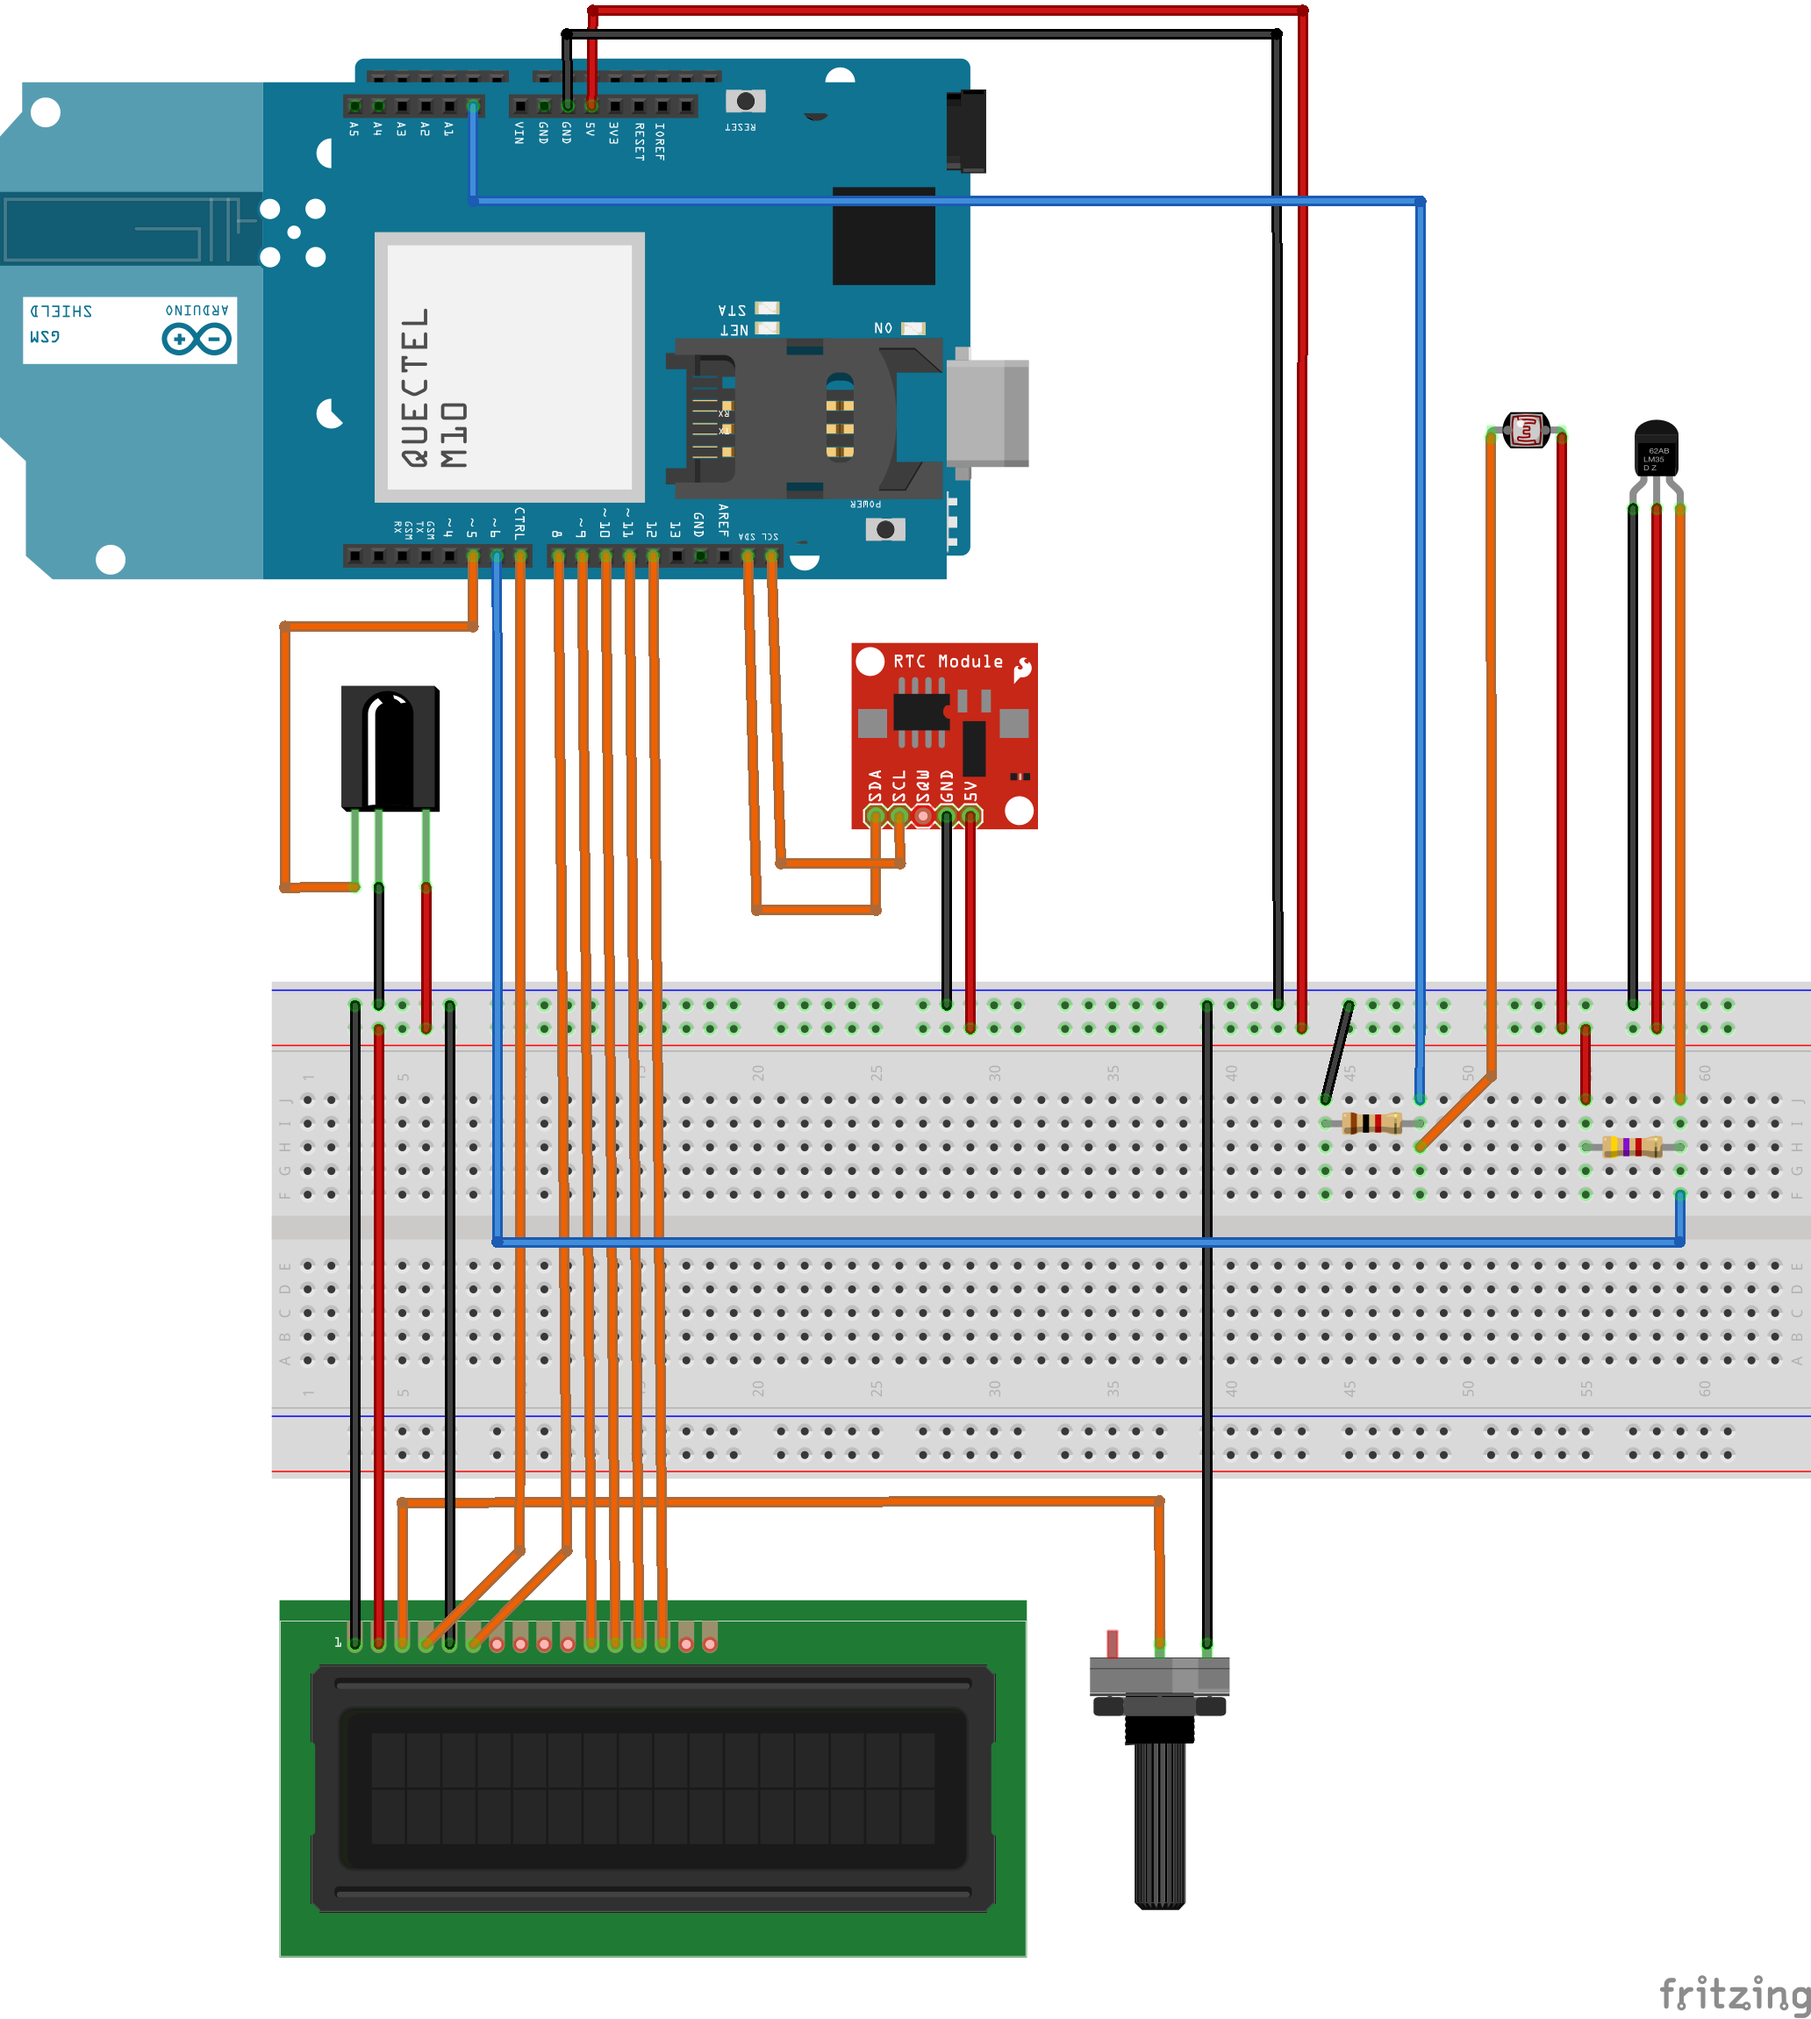
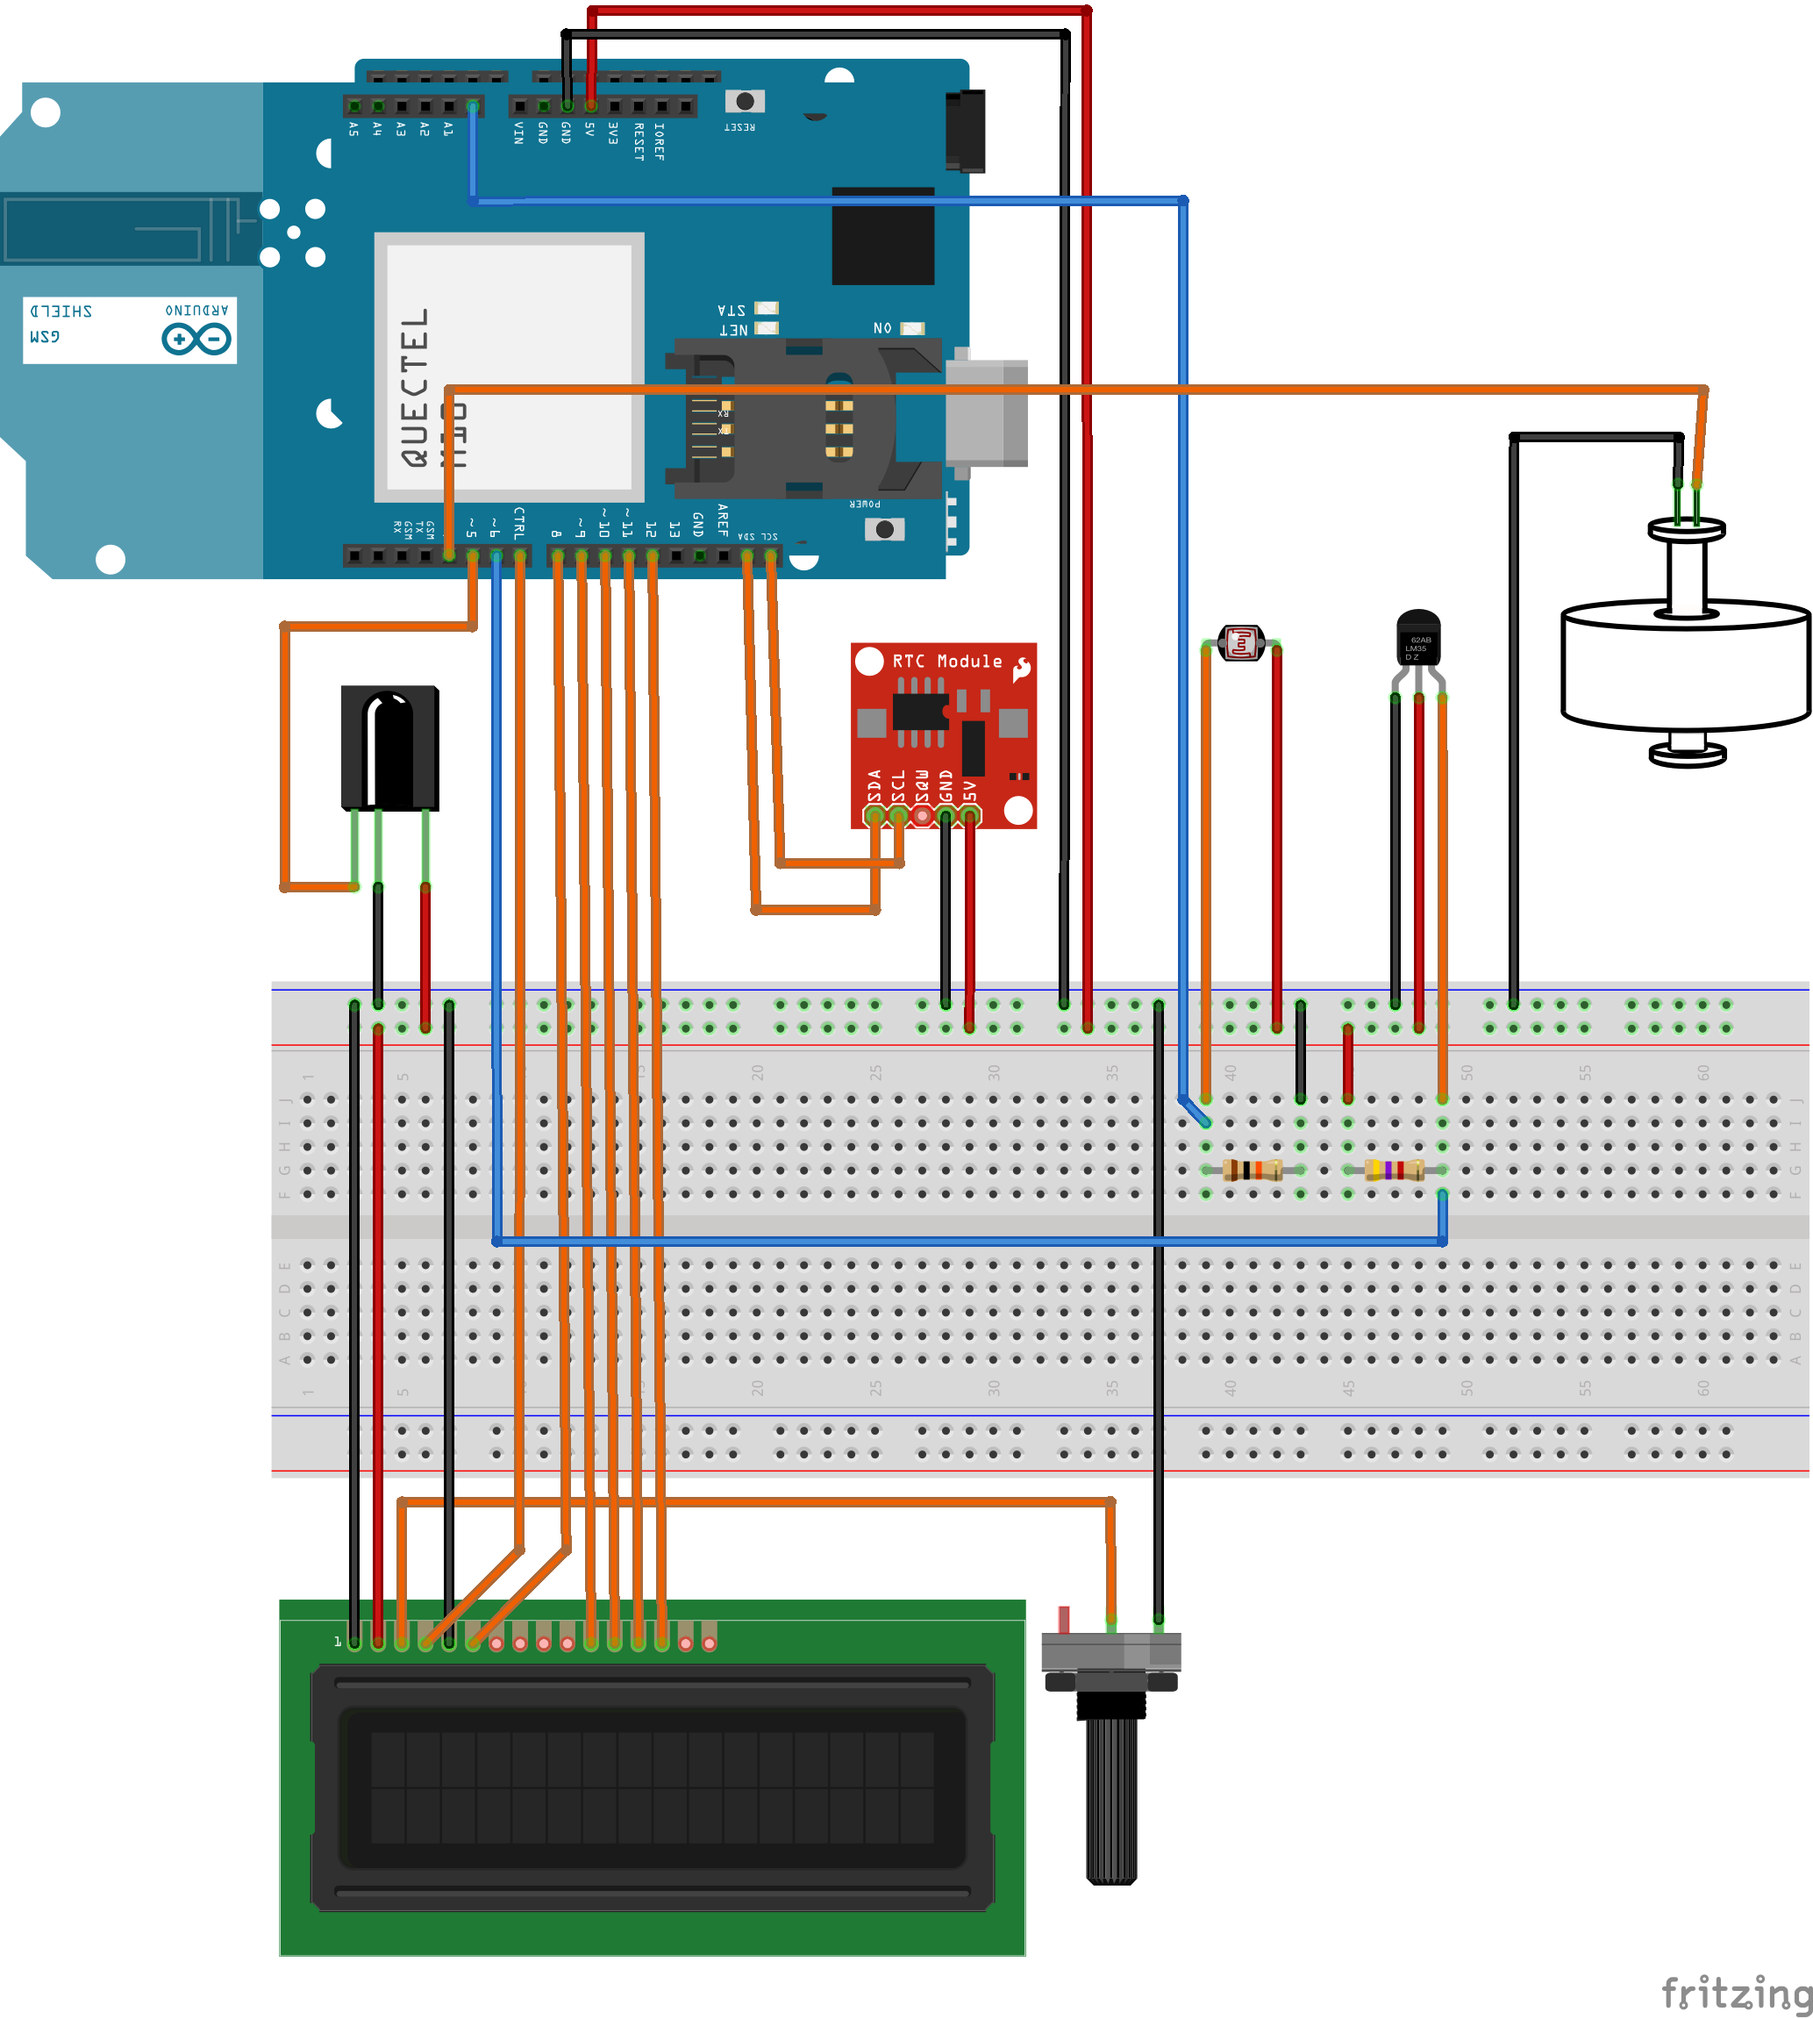
Added Floating switch to design for water level low alerts Added Floating switch component file for Fritzing

diff --git a/hardware/aquaMonitor_bom.html b/hardware/aquaMonitor_bom.html
@@ -29,8 +29,8 @@ td {
 
 <body>
 <h1>Bill of Materials: aquaMonitor.fzz</h1>
-<p class="meta">F:/DEV/arduino/aquaMonitor/aquaMonitor.fzz</p>
-<p class="meta">lundi, avril 6 2015, 17:44:23</p>
+<p class="meta">C:/Users/Xavier/Documents/DEV/Arduino/aquaMonitor/hardware/aquaMonitor.fzz</p>
+<p class="meta">samedi, avril 11 2015, 13:14:34</p>
 
 <h2>Assembly List</h2>
 <table>
@@ -58,7 +58,7 @@ td {
 </tr><tr>
     <td>IR1</td>
     <td>TSOP312.., 314..</td>
-    <td class="props">espacement des broches 0.1in (2.54mm); boîtier THT; broches 3; row single; numéro du composant  IR</td>
+    <td class="props">broches 3; row single; boîtier THT; espacement des broches 0.1in (2.54mm); numéro du composant  IR</td>
 </tr><tr>
     <td>R1</td>
     <td>PHOTOCELL</td>
@@ -71,6 +71,10 @@ td {
     <td>R3</td>
     <td>4.7kΩ Resistor</td>
     <td class="props">tolérance ±5%; boîtier 2010 [SMD]; résistance 4.7kΩ</td>
+</tr><tr>
+    <td>S1</td>
+    <td>Floater Switch</td>
+    <td class="props">variante variant 3; switching circuit SPST; default state Normally Open</td>
 </tr><tr>
     <td>U1</td>
     <td>POT</td>
@@ -111,7 +115,7 @@ td {
 </tr><tr>
     <td>1</td>
     <td>TSOP312.., 314..</td>
-    <td class="props">espacement des broches 0.1in (2.54mm); boîtier THT; broches 3; row single; numéro du composant  IR</td>
+    <td class="props">broches 3; row single; boîtier THT; espacement des broches 0.1in (2.54mm); numéro du composant  IR</td>
 </tr><tr>
     <td>1</td>
     <td>PHOTOCELL</td>
@@ -124,6 +128,10 @@ td {
     <td>1</td>
     <td>4.7kΩ Resistor</td>
     <td class="props">tolérance ±5%; boîtier 2010 [SMD]; résistance 4.7kΩ</td>
+</tr><tr>
+    <td>1</td>
+    <td>Floater Switch</td>
+    <td class="props">variante variant 3; switching circuit SPST; default state Normally Open</td>
 </tr><tr>
     <td>1</td>
     <td>POT</td>
